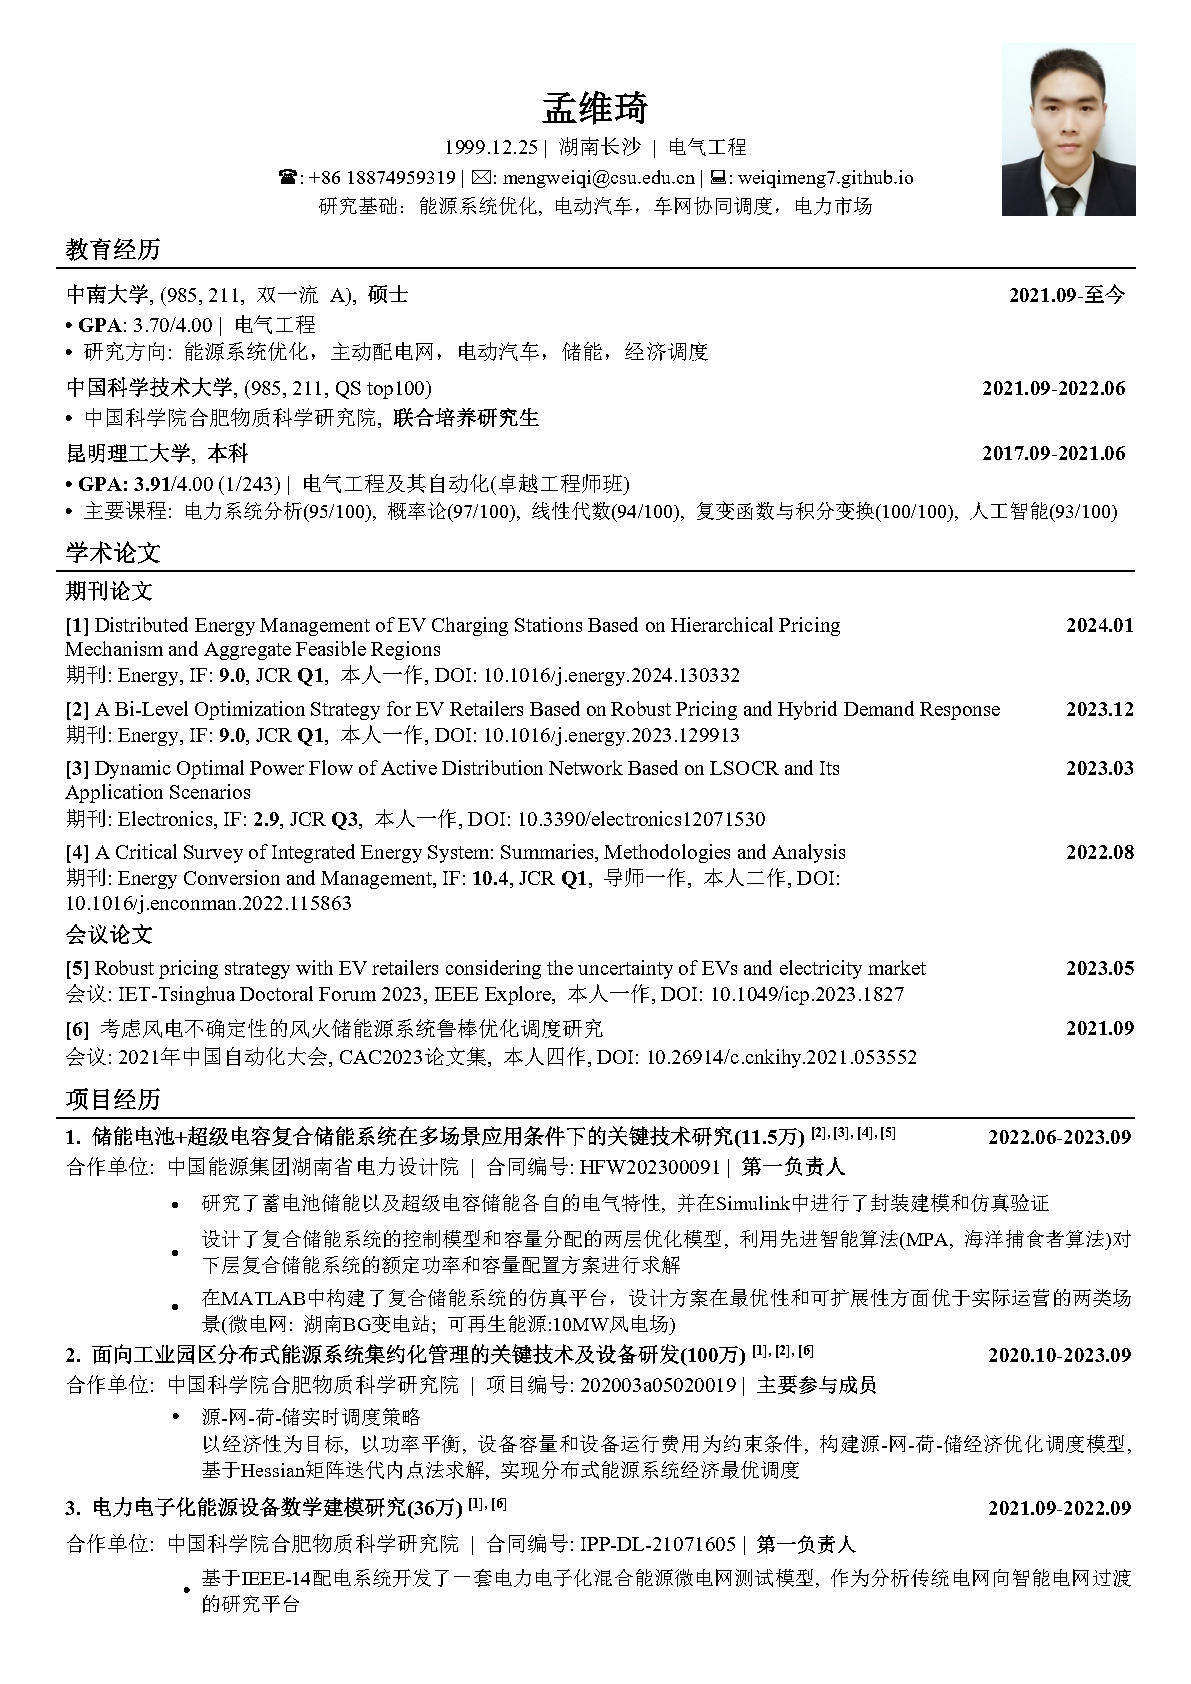
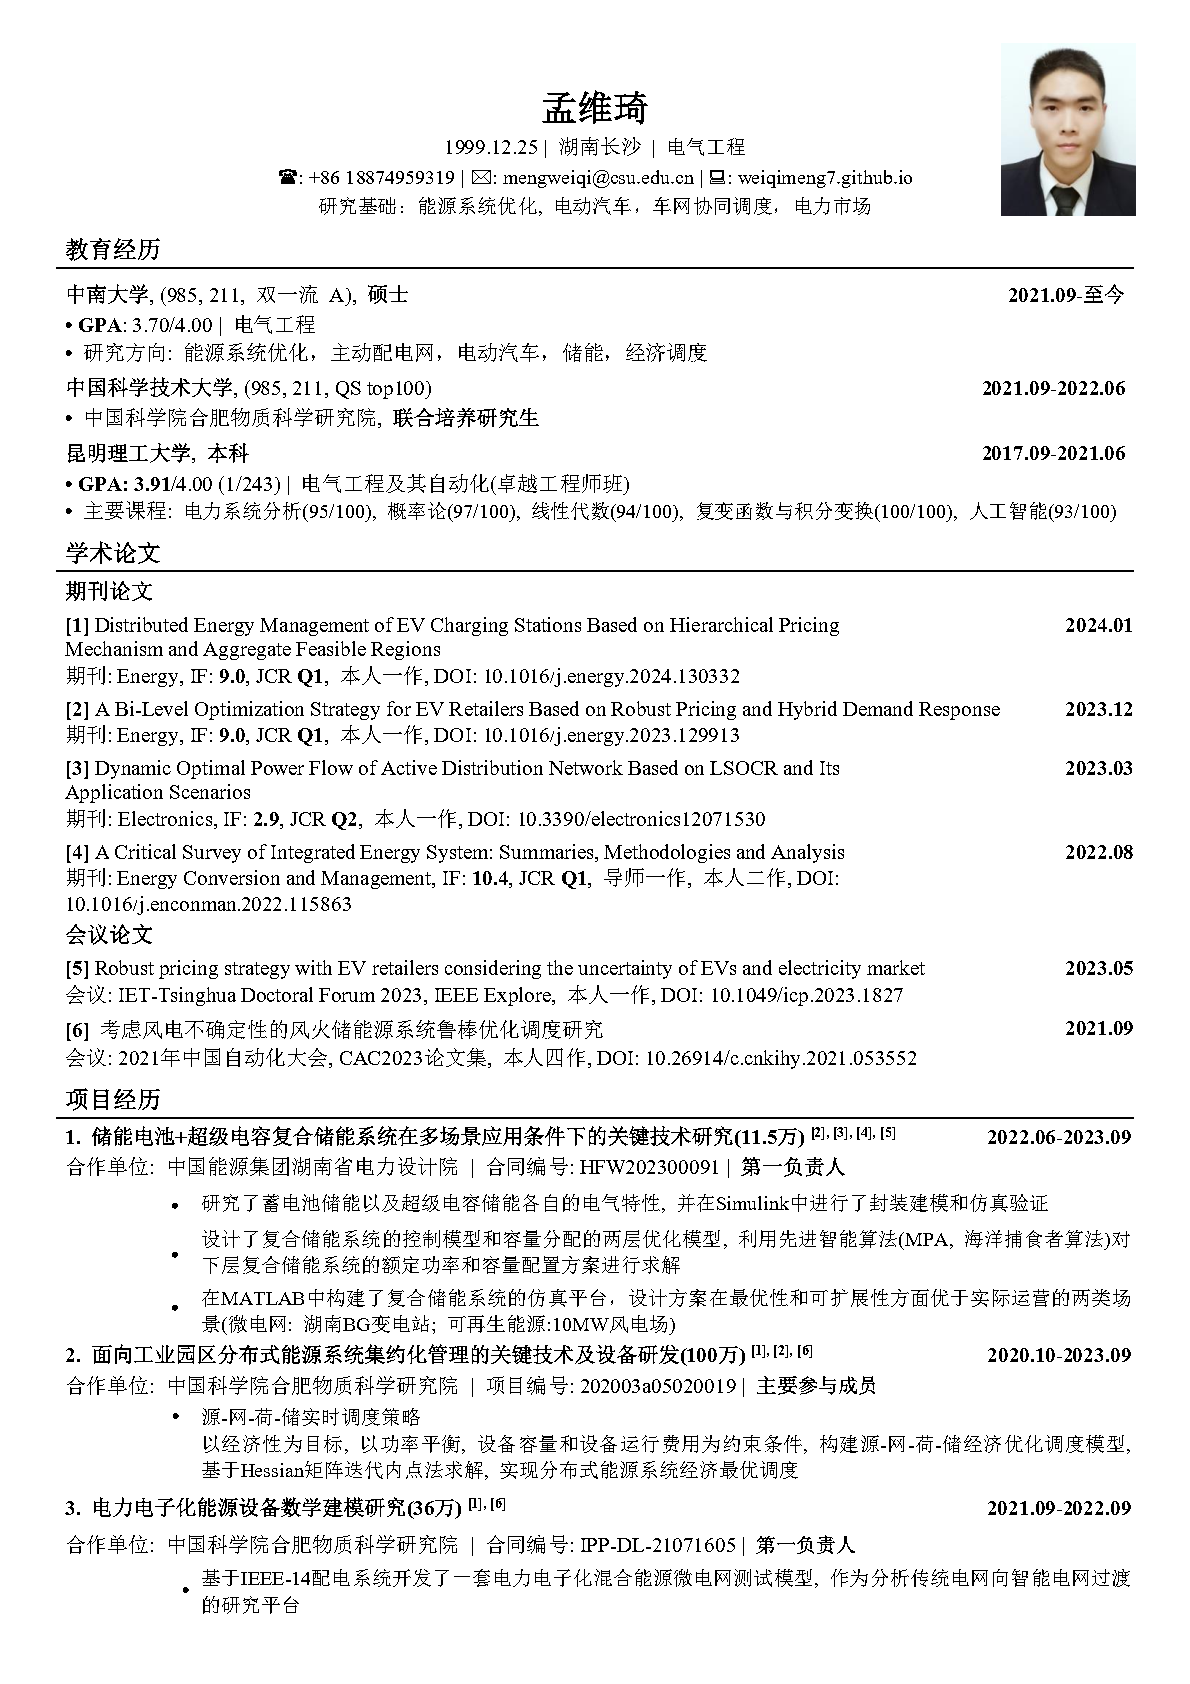
updating site on Fri Mar 29 09:55:33     2024

diff --git a/content/en/publications/_index.md b/content/en/publications/_index.md
@@ -43,8 +43,7 @@ Energy System Optimization, Active Distribution Networks, Electric Vehicles, Ene
 
 [2] **W Meng**, D Song, L Huang, X Chen, J Yang, M Dong, M. Talaat. A Bi-Level Optimization Strategy for Electric Vehicle Retailers Based on Robust Pricing and Hybrid Demand Response. Energy, JCR **Q1**, **IF: 9.0**. **2023**; 129913. https://doi.org/10.1016/j.energy.2023.129913. [Journal Pre-proof](https://github.com/weiqimeng7/weiqimeng7.github.io/blob/master/file/1-s2.0-S0360544223033078-main-0.pdf).
 
-
-[3] **Meng W**, Song D, Deng X, Dong M, Yang J, Rizk-Allah RM, et al. Dynamic Optimal Power Flow of Active Distribution Network Based on LSOCR and Its Application Scenarios. Electronics, JCR **Q3**, **IF: 2.9**. **2023**;12(7):1530. https://doi.org/10.3390/electronics12071530 .[*Electronics official certificate*](https://www.mdpi.com/2211860). 
+[3] **Meng W**, Song D, Deng X, Dong M, Yang J, Rizk-Allah RM, et al. Dynamic Optimal Power Flow of Active Distribution Network Based on LSOCR and Its Application Scenarios. Electronics, JCR **Q2**, **IF: 2.9**. **2023**;12(7):1530. https://doi.org/10.3390/electronics12071530 .[*Electronics official certificate*](https://www.mdpi.com/2211860). 
 [*Wechat Article*](https://mp.weixin.qq.com/s/0gndUcVSP0wgPOLVeHFV7w).
 [Offical certificate](https://github.com/weiqimeng7/weiqimeng7.github.io/blob/master/file/Acceptance-Certificate-electronics-2241628.pdf).
 

diff --git a/content/cn/刊物/_index.md b/content/cn/刊物/_index.md
@@ -44,8 +44,7 @@ Nationality: Chinese
 
 [2] **W Meng**, D Song, L Huang, X Chen, J Yang, M Dong, M. Talaat. A Bi-Level Optimization Strategy for Electric Vehicle Retailers Based on Robust Pricing and Hybrid Demand Response. Energy, JCR **Q1**, **IF: 9.0**. **2023**; 129913. https://doi.org/10.1016/j.energy.2023.129913. [Journal Pre-proof](https://github.com/weiqimeng7/weiqimeng7.github.io/blob/master/file/1-s2.0-S0360544223033078-main-0.pdf).
 
-
-[3] **Meng W**, Song D, Deng X, Dong M, Yang J, Rizk-Allah RM, et al. Dynamic Optimal Power Flow of Active Distribution Network Based on LSOCR and Its Application Scenarios. Electronics, JCR **Q3**, **IF: 2.9**. **2023**;12(7):1530. https://doi.org/10.3390/electronics12071530 .[*Electronics official certificate*](https://www.mdpi.com/2211860). 
+[3] **Meng W**, Song D, Deng X, Dong M, Yang J, Rizk-Allah RM, et al. Dynamic Optimal Power Flow of Active Distribution Network Based on LSOCR and Its Application Scenarios. Electronics, JCR **Q2**, **IF: 2.9**. **2023**;12(7):1530. https://doi.org/10.3390/electronics12071530 .[*Electronics official certificate*](https://www.mdpi.com/2211860). 
 [*Wechat Article*](https://mp.weixin.qq.com/s/0gndUcVSP0wgPOLVeHFV7w).
 [Offical certificate](https://github.com/weiqimeng7/weiqimeng7.github.io/blob/master/file/Acceptance-Certificate-electronics-2241628.pdf).
 
